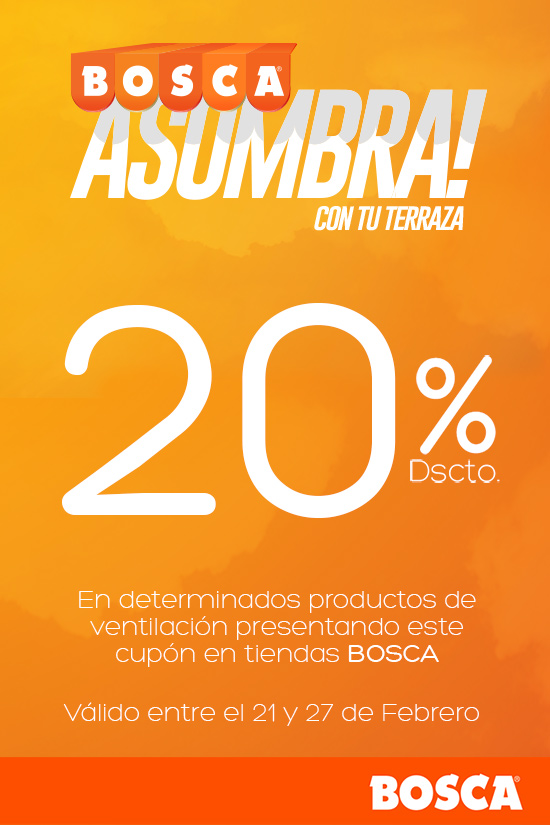
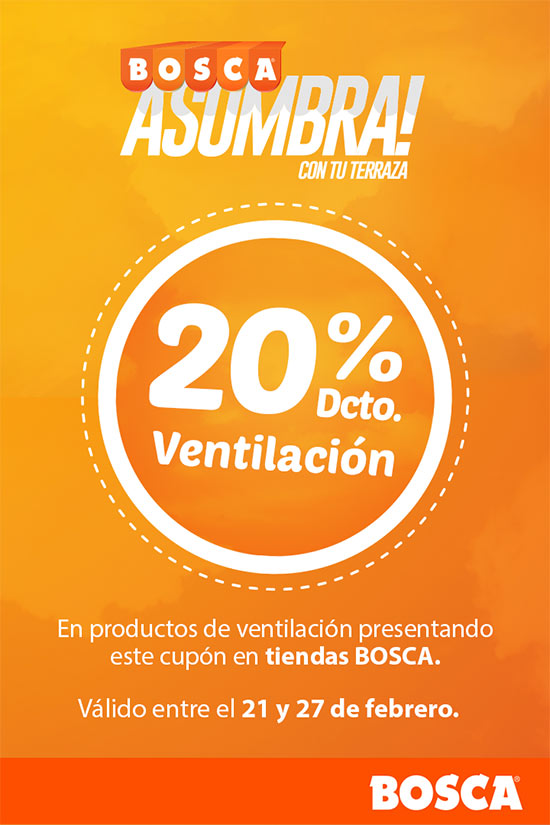
lightbox
ASS

Changed region(s): [[0.0927, 0.0303, 0.8964, 0.8182], [0.1236, 0.8485, 0.8655, 0.8788]]

diff --git a/css/style.css b/css/style.css
@@ -1437,8 +1437,25 @@ h6 {
   font-size: 0.8em; }
 
 .imgCupon {
-  width: 480px;
-  position: relative; }
+  width: 90%;
+  max-width: 800px;
+  position: relative;
+  overflow: hidden;
+  max-height: 100%;
+  margin: 0 auto;
+  background: url(../img/bg-light.jpg) repeat; }
+  .imgCupon .pro-l {
+    width: 70%;
+    margin: 20px auto 0 auto; }
+    @media screen and (min-width: 768px) {
+      .imgCupon .pro-l {
+        width: 90%; } }
+  .imgCupon .logo-light-L {
+    width: 70%;
+    margin: 0 auto; }
+  .imgCupon .texti-L {
+    width: 78%;
+    margin: 0 auto; }
   .imgCupon p.textLight {
     position: absolute;
     top: 180px;
@@ -1449,20 +1466,20 @@ h6 {
     text-align: right; }
   .imgCupon a.getCupon {
     color: #fff;
-    width: 43%;
-    padding: 13px;
+    width: 100%;
+    padding: 9px;
     text-align: center;
-    font-size: 1.2em;
+    font-size: 1em;
     background: #f04d1d;
     -webkit-border-radius: 10px;
     -moz-border-radius: 10px;
     border-radius: 10px;
     text-transform: uppercase;
-    position: absolute;
     text-decoration: none;
-    right: 20px;
-    bottom: 120px;
-    transition: .3s all; }
+    transition: .3s all;
+    /* margin: 0 auto; */
+    margin-bottom: 20px;
+    display: block; }
     .imgCupon a.getCupon:hover {
       background: #da3f11; }
 

diff --git a/sass/tema/scss/tema/_botones.scss b/sass/tema/scss/tema/_botones.scss
@@ -1,7 +1,30 @@
 .imgCupon{
-	width: 480px;
+	width: 90%;
+	max-width: 800px;
 	position: relative;
-
+	//-webkit-border-radius: 25px;
+	//-moz-border-radius: 25px;
+	//border-radius: 25px;
+	//height: 504px;
+	overflow: hidden;
+	max-height: 100%;
+	margin: 0 auto;
+	background: url(../img/bg-light.jpg) repeat;
+		.pro-l{
+			width: 70%;
+			margin: 20px auto 0 auto;
+			@include desde (tablet){
+				width: 90%;
+			}
+		}
+		.logo-light-L{
+			width: 70%;
+			margin: 0 auto;
+		}
+		.texti-L{
+			width: 78%;
+			margin: 0 auto;
+		}
 		p.textLight{
 			position: absolute;
 			top:180px;
@@ -14,20 +37,20 @@
 
 		a.getCupon{
 			color: #fff;
-		    width: 43%;
-		    padding: 13px;
+		    width: 100%;
+		    padding: 9px;
 		    text-align: center;
-		    font-size: 1.2em;
+		    font-size: 1em;
 		    background: #f04d1d;
 		    -webkit-border-radius: 10px;
 		    -moz-border-radius: 10px;
 		    border-radius: 10px;
 		    text-transform: uppercase;
-		    position: absolute;
 		    text-decoration: none;
-		    right: 20px;
-		    bottom: 120px;
 		    transition: .3s all;
+		    /* margin: 0 auto; */
+		    margin-bottom: 20px;
+		    display: block;
 		    &:hover{
 		    	background: #da3f11;
 		    }

diff --git a/cupon.html b/cupon.html
@@ -14,9 +14,13 @@
   </head>
   <body>
     <div class="grupo">
-      <div class="caja base-100">
-        <div class="imgCupon"><img src="img/cupon-lightbox.jpg" alt="">
-          <p class="textLight">Haz click y obtén un increíble cupón para renovar tu hogar.</p><a href="img/cupon.jpg" target="_blank" class="getCupon">¡Lo quiero!</a>
+      <div class="imgCupon">
+        <div class="caja base-100 tablet-50">
+          <div class="pro-l"><img src="img/productos_light.png" alt=""></div>
+        </div>
+        <div class="caja base-100 tablet-50">
+          <div class="logo-light-L"><img src="img/logo-light.png" alt=""></div>
+          <div class="texti-L"><img src="img/texto-light.png" alt=""><a href="img/cupon.jpg" target="_blank" class="getCupon">¡Lo quiero!</a></div>
         </div>
       </div>
     </div>
